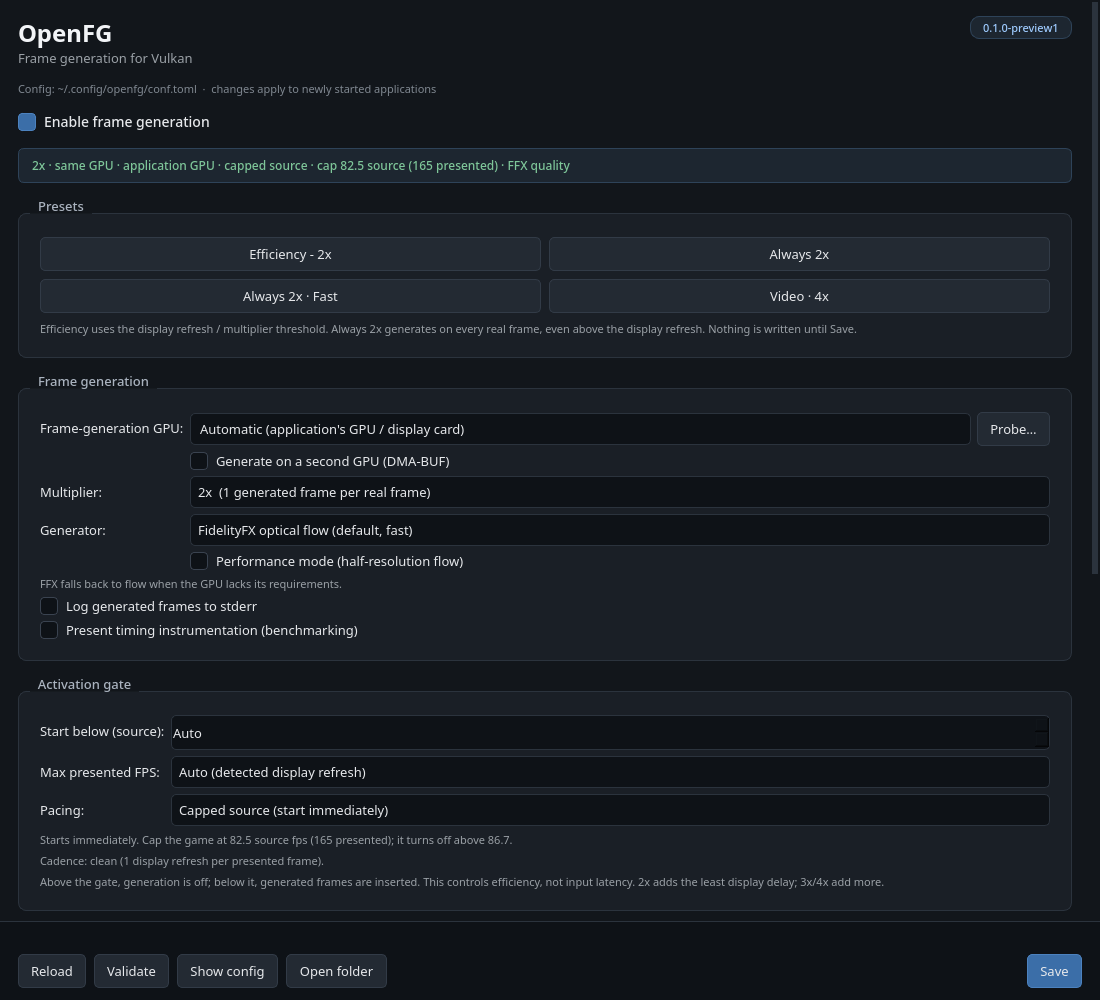
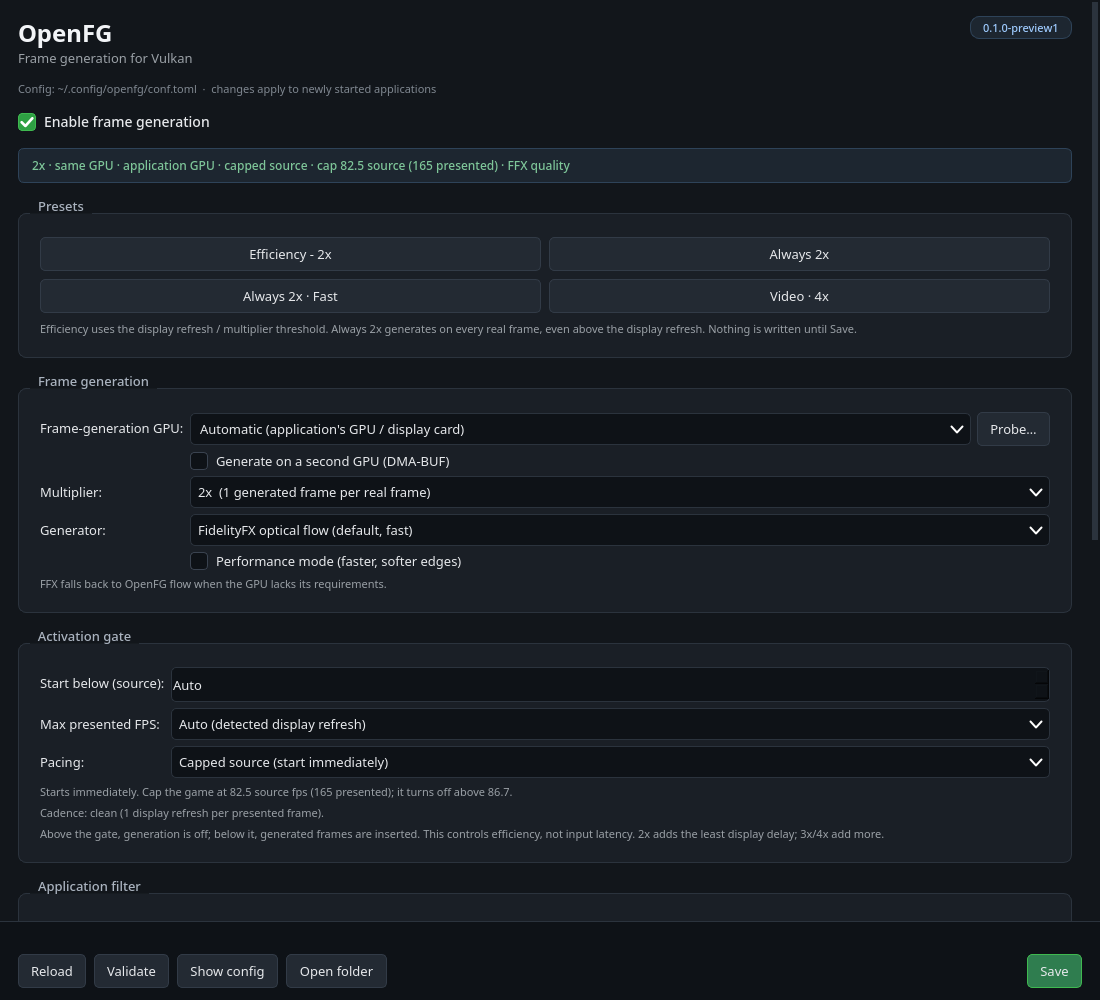
gui: polish the controls and diagnostics
Add white combo chevrons and a checked-state tick, switch the selection accent to green, move debugging and present timing into a Benchmarking and logs section, rename Processes to Application filter with clearer labels, capitalize OpenFG in the generator list, and shorten the disabled summary.

diff --git a/gui/openfg-gui.py b/gui/openfg-gui.py
@@ -55,28 +55,41 @@ QCheckBox::indicator {
     background: #0e1217;
 }
 QCheckBox::indicator:checked {
-    background: #3b6ea8; border-color: #4c82bf;
+    background: #2ea043; border-color: #3fb950;
+    image: url("__CHECK__");
 }
 QLineEdit, QComboBox, QSpinBox, QPlainTextEdit {
     background-color: #0e1217;
     border: 1px solid #2b333d;
     border-radius: 5px;
     padding: 5px 7px;
-    selection-background-color: #3b5b8a;
+    selection-background-color: #2ea043;
+    selection-color: #ffffff;
 }
 QLineEdit:focus, QComboBox:focus, QSpinBox:focus, QPlainTextEdit:focus {
-    border-color: #4c82bf;
+    border-color: #3fb950;
 }
 QLineEdit:disabled, QComboBox:disabled, QSpinBox:disabled,
 QPlainTextEdit:disabled {
     color: #6b7280;
     background-color: #151a20;
 }
-QComboBox::drop-down { border: none; width: 22px; }
+QComboBox::drop-down {
+    subcontrol-origin: padding;
+    subcontrol-position: center right;
+    width: 26px;
+    border: none;
+}
+QComboBox::down-arrow {
+    image: url("__ARROW__");
+    width: 14px;
+    height: 9px;
+}
 QComboBox QAbstractItemView {
     background: #161b22;
     border: 1px solid #2b333d;
-    selection-background-color: #2d3b4f;
+    selection-background-color: #2ea043;
+    selection-color: #ffffff;
 }
 QPushButton {
     background-color: #232a33;
@@ -86,8 +99,8 @@ QPushButton {
 }
 QPushButton:hover { background-color: #2b3440; }
 QPushButton:pressed { background-color: #1d242c; }
-QPushButton:default { background-color: #3b6ea8; border-color: #4c82bf; }
-QPushButton:default:hover { background-color: #457cb8; }
+QPushButton:default { background-color: #2f7d4f; border-color: #3fb950; }
+QPushButton:default:hover { background-color: #37945c; }
 QToolTip {
     background-color: #1a1f26;
     color: #e6e8eb;
@@ -101,6 +114,13 @@ QScrollBar::handle:vertical {
 QScrollBar::add-line:vertical, QScrollBar::sub-line:vertical { height: 0; }
 QScrollBar::add-page:vertical, QScrollBar::sub-page:vertical { background: transparent; }
 """
+
+
+def app_style() -> str:
+    assets = Path(__file__).resolve().parent
+    return (APP_STYLE
+            .replace("__ARROW__", (assets / "chevron-down.svg").as_posix())
+            .replace("__CHECK__", (assets / "check.svg").as_posix()))
 
 
 def short_path(path: Path) -> str:
@@ -559,9 +579,9 @@ class MainWindow(QtWidgets.QMainWindow):
         self.generator = QtWidgets.QComboBox()
         for value, label in (
             ("ffx", "FidelityFX optical flow (default, fast)"),
-            ("flow", "openfg optical flow (quality; FFX fallback)"),
-            ("blend", "Linear blend (no flow; fast baseline)"),
-            ("hold", "Hold current frame (no interpolation)"),
+            ("flow", "OpenFG optical flow (alternative; slower)"),
+            ("blend", "Linear blend (testing baseline)"),
+            ("hold", "Hold current frame (testing)"),
             ("off", "Off / timing only"),
         ):
             self.generator.addItem(label, value)
@@ -570,14 +590,15 @@ class MainWindow(QtWidgets.QMainWindow):
         index = self.generator.findData(self.config["generator"])
         self.generator.setCurrentIndex(index if index >= 0 else 0)
         self.generator.setToolTip(
-            "FFX is the default and includes the static-UI mask for HUD text. "
-            "Unsupported GPUs fall back to flow. Blend and hold are baselines; "
-            "off keeps the layer loaded for timing."
+            "Use FidelityFX unless you are comparing generators. It includes "
+            "the static-UI mask for HUD text; unsupported GPUs fall back to "
+            "OpenFG flow. Blend and hold are testing baselines; off keeps the "
+            "layer loaded for timing."
         )
         form.addRow("Generator:", self.generator)
 
         self.performance = QtWidgets.QCheckBox(
-            "Performance mode (half-resolution flow)")
+            "Performance mode (faster, softer edges)")
         self.performance.setChecked(self.config["performance_mode"])
         self.performance.setToolTip(
             "Half-resolution flow: about 1.03 → 0.52 ms with FFX at 1440p. "
@@ -585,21 +606,9 @@ class MainWindow(QtWidgets.QMainWindow):
         )
         form.addRow("", self.performance)
 
-        self.debug = QtWidgets.QCheckBox("Log generated frames to stderr")
-        self.debug.setChecked(self.config["debug"])
-        self.present_timing = QtWidgets.QCheckBox(
-            "Present timing instrumentation (benchmarking)")
-        self.present_timing.setChecked(self.config["present_timing"])
-        self.present_timing.setToolTip(
-            "Record present-latency percentiles in the log. It can change "
-            "compositor pacing; use for benchmarks only."
-        )
-
         settings_layout.addLayout(form)
         settings_layout.addWidget(hint(
-            "FFX falls back to flow when the GPU lacks its requirements."))
-        settings_layout.addWidget(self.debug)
-        settings_layout.addWidget(self.present_timing)
+            "FFX falls back to OpenFG flow when the GPU lacks its requirements."))
 
         root.addWidget(settings)
 
@@ -658,7 +667,7 @@ class MainWindow(QtWidgets.QMainWindow):
         self.max_presented_spin.setVisible(self.max_presented.currentData() == 1)
 
         self.pacing = QtWidgets.QComboBox()
-        self.pacing.addItem("Adaptive (1 s threshold dwell)", "adaptive")
+        self.pacing.addItem("Adaptive (wait for a sustained drop)", "adaptive")
         self.pacing.addItem("Capped source (start immediately)", "capped")
         self.pacing.setSizePolicy(
             QtWidgets.QSizePolicy.Expanding, QtWidgets.QSizePolicy.Fixed)
@@ -682,21 +691,23 @@ class MainWindow(QtWidgets.QMainWindow):
         root.addWidget(gate)
 
         # Process filters
-        processes = QtWidgets.QGroupBox("Processes")
+        processes = QtWidgets.QGroupBox("Application filter")
         process_layout = QtWidgets.QGridLayout(processes)
-        process_layout.addWidget(QtWidgets.QLabel("Include (one per line):"), 0, 0)
-        process_layout.addWidget(QtWidgets.QLabel("Exclude (one per line):"), 0, 1)
+        process_layout.addWidget(QtWidgets.QLabel("Apply to (one per line):"), 0, 0)
+        process_layout.addWidget(QtWidgets.QLabel("Never apply to (one per line):"), 0, 1)
         self.include = QtWidgets.QPlainTextEdit("\n".join(self.config["include"]))
         self.exclude = QtWidgets.QPlainTextEdit("\n".join(self.config["exclude"]))
+        self.include.setPlaceholderText("empty = all applications")
+        self.exclude.setPlaceholderText("empty = none")
         for edit in (self.include, self.exclude):
-            edit.setPlaceholderText("empty = all processes")
             edit.setMinimumHeight(80)
             edit.setMaximumHeight(110)
         process_layout.addWidget(self.include, 1, 0)
         process_layout.addWidget(self.exclude, 1, 1)
         process_layout.addWidget(hint(
-            "Case-insensitive; * and ? wildcards. Wine/Proton games use their "
-            ".exe name. Empty include = all; exclude always wins."
+            "Limits which Vulkan applications OpenFG attaches to. Wine/Proton "
+            "games use their .exe name. Case-insensitive; * and ? wildcards. "
+            "Exclude wins."
         ), 2, 0, 1, 2)
         root.addWidget(processes)
 
@@ -750,6 +761,30 @@ class MainWindow(QtWidgets.QMainWindow):
             "players. Requires a Vulkan-presenting player (mpv/gpu-next)."
         ), 6, 0, 1, 2)
         root.addWidget(video)
+
+        # Benchmarking and logs
+        diagnostics = QtWidgets.QGroupBox("Benchmarking and logs")
+        diagnostics_layout = QtWidgets.QVBoxLayout(diagnostics)
+        self.debug = QtWidgets.QCheckBox(
+            "Debug logging (per-frame layer log)")
+        self.debug.setChecked(self.config["debug"])
+        self.debug.setToolTip(
+            "Write per-frame layer lines to the log. Set OPENFG_LOG to a "
+            "file; otherwise stderr."
+        )
+        self.present_timing = QtWidgets.QCheckBox(
+            "Present timing (benchmarking)")
+        self.present_timing.setChecked(self.config["present_timing"])
+        self.present_timing.setToolTip(
+            "Record present-latency percentiles in the log. It can change "
+            "compositor pacing; use for measurement runs only."
+        )
+        diagnostics_layout.addWidget(self.debug)
+        diagnostics_layout.addWidget(self.present_timing)
+        diagnostics_layout.addWidget(hint(
+            "Present timing adds VK_KHR_present_id/present_wait and can "
+            "change compositor pacing. Keep it separate from normal play."))
+        root.addWidget(diagnostics)
 
         # Status and buttons
         self.status = QtWidgets.QLabel("")
@@ -884,7 +919,7 @@ class MainWindow(QtWidgets.QMainWindow):
 
     def _update_summary(self) -> None:
         if not self.enabled.isChecked():
-            text = "Frame generation is disabled for matching processes."
+            text = "Frame generation disabled."
             color = "#9aa0a6"
         else:
             multiplier = int(self.multiplier.currentData())
@@ -907,7 +942,7 @@ class MainWindow(QtWidgets.QMainWindow):
                     f"gate {threshold:.1f} source "
                     f"({threshold * multiplier:.0f} presented)")
             gen = str(self.generator.currentData())
-            gen_text = {"ffx": "FFX", "flow": "flow", "blend": "blend",
+            gen_text = {"ffx": "FFX", "flow": "OpenFG flow", "blend": "blend",
                         "hold": "hold", "off": "off"}.get(gen, gen)
             if gen in ("ffx", "flow"):
                 quality = ("performance" if self.performance.isChecked()
@@ -1209,7 +1244,7 @@ class MainWindow(QtWidgets.QMainWindow):
 def main() -> int:
     app = QtWidgets.QApplication(sys.argv)
     app.setStyle("Fusion")
-    app.setStyleSheet(APP_STYLE)
+    app.setStyleSheet(app_style())
     app.setApplicationName("openfg-gui")
     app.setApplicationDisplayName(APP_NAME)
     icon = QtGui.QIcon.fromTheme("openfg")

diff --git a/README.md b/README.md
@@ -69,8 +69,8 @@ process loads it; the config decides whether it is active. Use
 ## Control panel
 
 `openfg-gui` edits the same file. It includes presets, the activation gate, a
-GPU capability probe, process/video profiles and a live summary of the
-effective mode.
+GPU capability probe, application filters, video profiles and a live summary
+of the effective mode.
 
 For UI work, `scripts/install-gui.sh --dev` symlinks the installed launcher to
 `gui/openfg-gui.py`; edits appear on the next launch without reinstalling.
@@ -158,7 +158,7 @@ The layer reads `$XDG_CONFIG_HOME/openfg/conf.toml`, falling back to
 | `max_presented_fps` | `0` | Presented-frame cap; also sets the automatic activation threshold when non-zero. `-1` = detected display refresh; `0` = off. |
 | `present_timing` | `false` | Present-id/wait latency instrumentation. |
 | `debug` | `false` | Per-frame logging to stderr. |
-| `[processes] include` | `[]` | Process allow-list; empty means all. `*` and `?` are supported. |
+| `[processes] include` | `[]` | Application allow-list (Wine/Proton `.exe` names); empty means all. `*` and `?` are supported. |
 | `[processes] exclude` | `[]` | Always passthrough; wins over include. |
 | `[video] processes` | `[]` | Players that use the video profile. |
 | `[video] multiplier` | `4` | Video multiplier. |
@@ -193,6 +193,9 @@ Environment overrides: `OPENFG_ENABLE`, `OPENFG_GPU`, `OPENFG_CROSS_GPU`,
 | `flow` | OpenFG's original dense optical flow | Compatibility path. No static-UI mask yet. |
 | `blend` | Linear A/B blend | Comparison baseline. |
 | `hold` | Repeat the current frame | Comparison baseline. |
+
+For normal play, use `ffx`. `flow` is the fallback/alternative; `blend` and
+`hold` are comparison baselines, and `off` is for timing.
 | `off` | Layer loaded, no generation | Latency baseline. |
 
 All backends use the same photo-consistency interpolation and visibility
